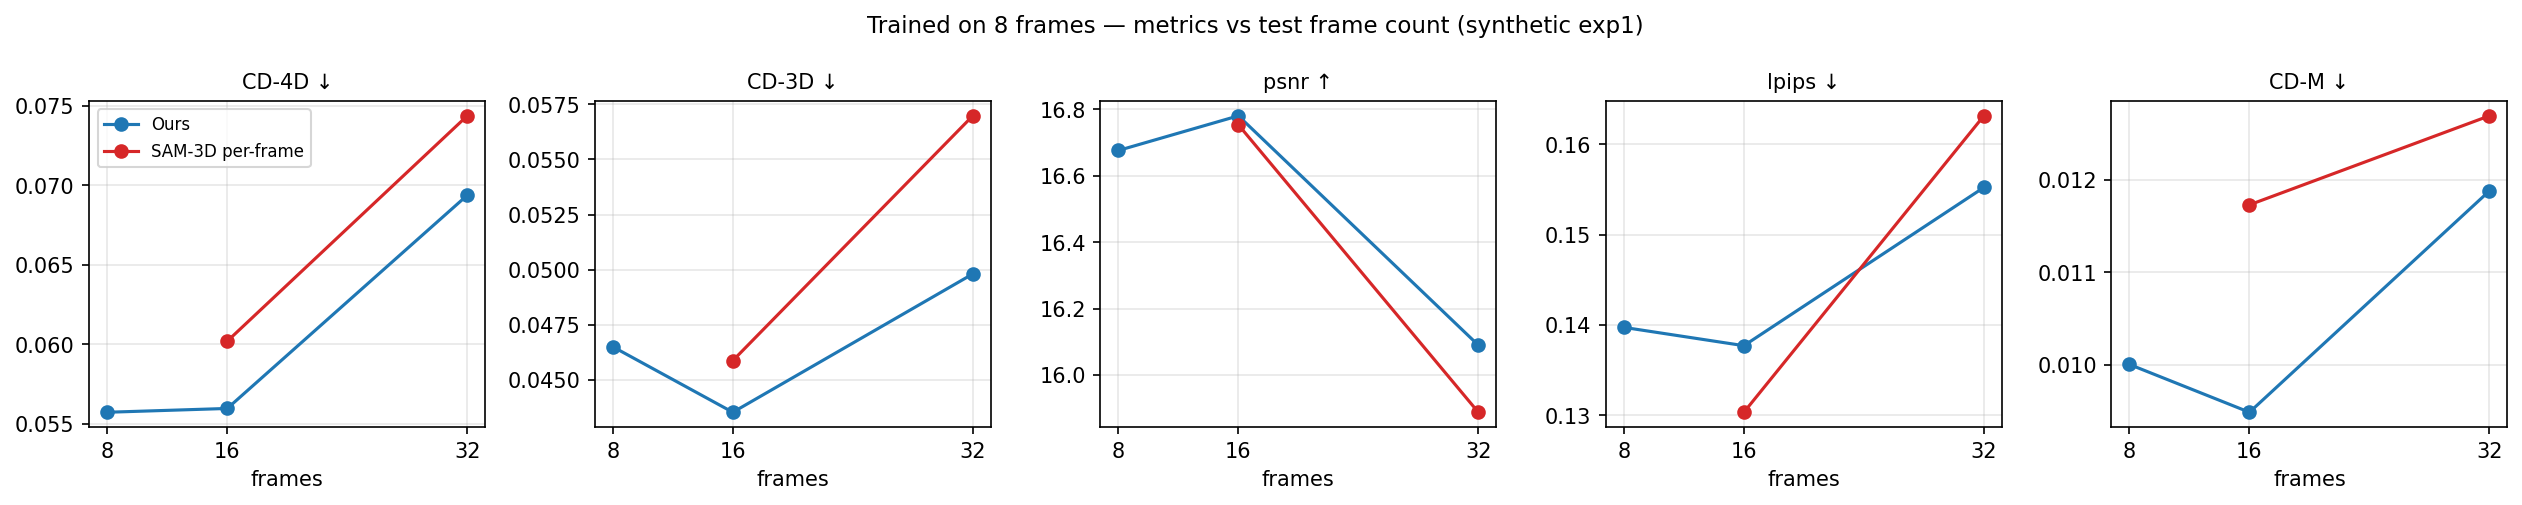
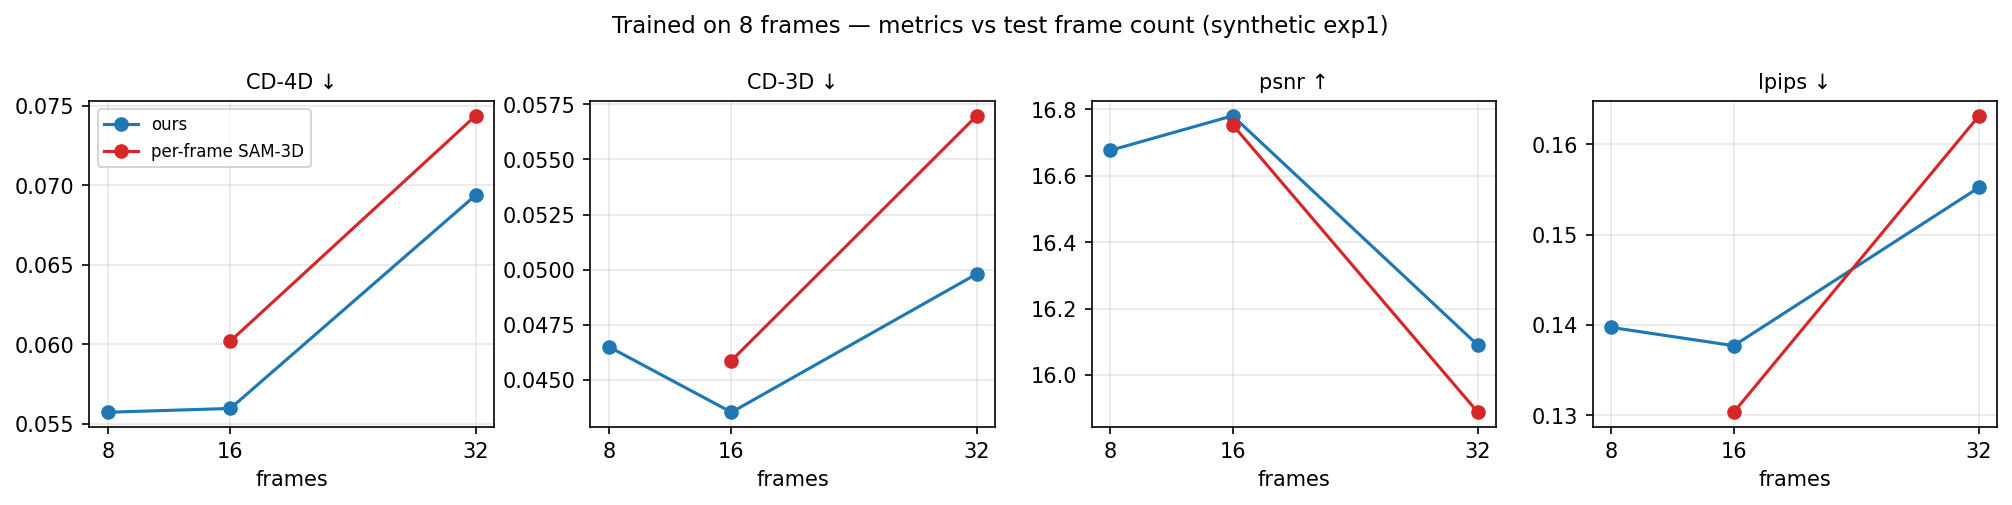
sam3d: 32f galleries (ovb, lift4d ablation, frame-count)

diff --git a/sam3d/g32_ovb.html b/sam3d/g32_ovb.html
@@ -12,8 +12,6 @@ margin:0;padding:24px}h1{font-size:19px}h2{font-size:15px;color:#bbb;margin-top:
 <h2>Score graphs</h2>
 <p class=cap>Synthetic 32f — occupancy (CD-3D / CD-4D / IoU), ours vs per-frame SAM-3D</p><img src="g32_ovb/graph_table_occ.png" style="max-width:100%;background:#fff">
 <p class=cap>Synthetic 32f — appearance (PSNR / SSIM / LPIPS)</p><img src="g32_ovb/graph_table_app.png" style="max-width:100%;background:#fff">
-<p class=cap>Synthetic 32f — mesh</p><img src="g32_ovb/graph_table_mesh.png" style="max-width:100%;background:#fff">
-<p class=cap>In-the-wild 32f full — layout jitter (GT-free)</p><img src="g32_ovb/graph_table_jitter.png" style="max-width:100%;background:#fff">
 <h2>Synthetic (Syn4D test scenes, full-image)</h2>
 <div class=e><h3>syn4d_soviet_group_seq_000000_0_6a9c2e83</h3>
 <video src="g32_ovb/syn4d_soviet_group_seq_000000_0_6a9c2e83_full.mp4" controls loop muted playsinline autoplay></video>

diff --git a/sam3d/g32_lift4d.html b/sam3d/g32_lift4d.html
@@ -10,8 +10,7 @@ margin:0;padding:24px}h1{font-size:19px}h2{font-size:15px;color:#bbb;margin-top:
 <button onclick="document.querySelectorAll('video').forEach(v=>v.pause())">&#10074;&#10074; pause all</button></p>
 
 <h2>Score graphs</h2>
-<p class=cap>Geometry — wild 32f layout jitter (lf_sl = WITH lift4d, lf_sy = WITHOUT)</p><img src="g32_lift4d/graph_table_jitter.png" style="max-width:100%;background:#fff">
-<p class=cap>Texture — oracle appearance (with-lift4d T-A/T-B vs no-lift4d rows; 8f protocol)</p><img src="g32_lift4d/graph_table_app.png" style="max-width:100%;background:#fff">
+<p class=cap>Texture — oracle appearance (8f protocol)</p><img src="g32_lift4d/tex_oracle_scores.png" style="max-width:100%;background:#fff">
 <h2>Geometry (occ) — syn4d+lift4d vs syn4d-only</h2>
 <div class=e><h3>bear</h3>
 <video src="g32_lift4d/geom_bear.mp4" controls loop muted playsinline autoplay></video>
